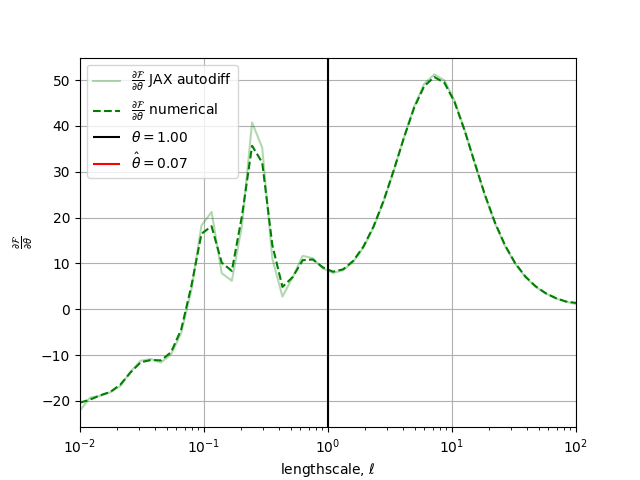
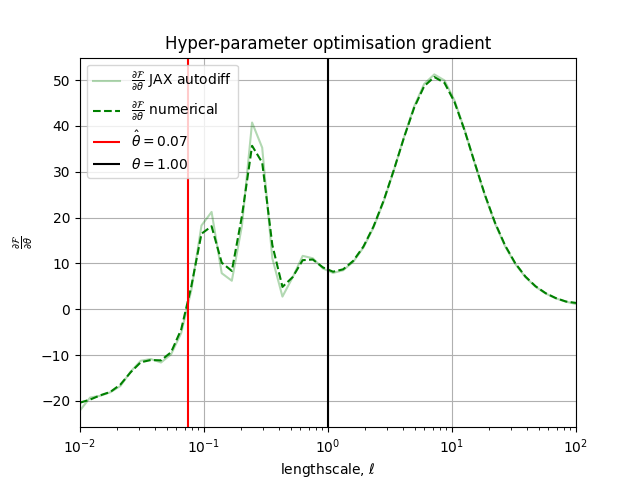
final tidy of examples and readme

Changed region(s): [[0.25, 0.0625, 0.7812, 0.125], [0.1562, 0.25, 0.3125, 0.375]]

diff --git a/examples/classification.py b/examples/classification.py
@@ -99,8 +99,9 @@ def plot_obj(x_hat, x_0, x, fs, gs, domain, xlabel, xscale, fname="plot"):
     ax.set_xlabel(xlabel, fontsize=10)
     ax.set_xscale(xscale)
     ax.set_ylabel(r"$\mathcal{F}$", fontsize=10)
+    ax.set_title('Hyper-parameter optimisation objective')
     ax.legend()
-    fig.savefig("readme_elbo.png",
+    fig.savefig("readme_objective.png",
         facecolor=fig.get_facecolor(), edgecolor='none')
     plt.close()
 
@@ -117,13 +118,15 @@ def plot_obj(x_hat, x_0, x, fs, gs, domain, xlabel, xscale, fname="plot"):
     ax.plot(
         x, dfsx, 'g--',
         label=r"$\frac{\partial \mathcal{F}}{\partial \theta}$ numerical")
-    ax.vlines(x_0, ax.get_ylim()[0], ax.get_ylim()[1], 'k',
-        alpha=MG_ALPHA, label=r"$\theta={:.2f}$".format(x_0))
+    ylim = ax.get_ylim()
     ax.vlines(x_hat, ylim[0], ylim[1], 'r',
         alpha=MG_ALPHA, label=r"$\hat\theta={:.2f}$".format(x_hat))
+    ax.vlines(x_0, ylim[0], ylim[1], 'k',
+        alpha=MG_ALPHA, label=r"$\theta={:.2f}$".format(x_0))
     ax.set_xscale(xscale)
     ax.set_xlabel(xlabel, fontsize=10)
     ax.set_ylabel(r"$\frac{\partial \mathcal{F}}{\partial \theta}$", fontsize=10)
+    ax.set_title('Hyper-parameter optimisation gradient')
     ax.legend()
     fig.savefig("readme_grad.png",
         facecolor=fig.get_facecolor(), edgecolor='none')
@@ -276,13 +279,11 @@ def calculate_metrics(y_test, predictive_distributions):
     mean_absolute_error = jnp.sum(jnp.abs(y_pred - y_test)) / len(y_test)
     print(jnp.sum(y_pred != y_test), "sum incorrect")
     print(jnp.sum(y_pred == y_test), "sum correct")
-    print("mean_absolute_error ", mean_absolute_error)
+    print("mean_absolute_error={:.2f}".format(mean_absolute_error))
     log_predictive_probability = jnp.sum(jnp.log(predictive_likelihood))
-    print("log_pred_probability ", log_predictive_probability)
-    predictive_likelihood = jnp.sum(predictive_likelihood) / len(y_test)
-    print("predictive_likelihood ", predictive_likelihood)
+    print("log_pred_probability={:.2f}".format(log_predictive_probability))
     mean_zero_one = jnp.sum(y_pred != y_test) / len(y_test)
-    print("mean_zero_one_error", mean_zero_one)
+    print("mean_zero_one_error={:.2f}".format(mean_zero_one))
     return (
         mean_zero_one,
         mean_absolute_error,

diff --git a/examples/regression.py b/examples/regression.py
@@ -3,8 +3,8 @@
 from jax.config import config
 config.update("jax_enable_x64", True)
 
-from probit_jax.utilities import log_gaussian_likelihood
-from probit_jax.approximators import LaplaceGP as GP
+from probit.utilities import log_gaussian_likelihood
+from probit.approximators import LaplaceGP as GP
 import lab as B
 import jax.numpy as jnp
 import jax.random as random
